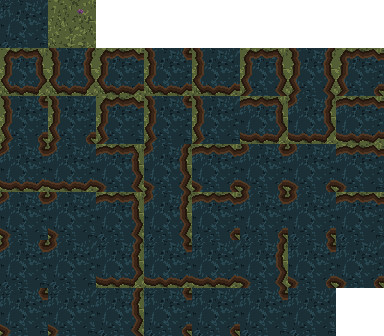
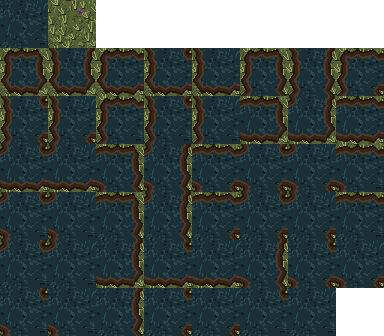
Ember Moor's floor with the new generators: the moor's three looks are the same ground with tufts lit from the style's light, sharing edges=2 and each with its own seed inside (map lattice 26% → 12%, seam 0.35 → 0.17); the pool follows its outside tile; the bog water's cluster-size limit raised agai

diff --git a/skill/SKILL.md b/skill/SKILL.md
@@ -88,7 +88,9 @@ At 48 px: look with `view grid region=` (a whole 48x48 grid is long), `render` c
 (192 px) and `tile3x3` at 4x (576 px). Make texture variants by **forking the base and changing
 only its inside** (`fork moor moor_b`, `variant of=moor`, then `noise 4,4 40x40 … base=keep
 wrap=off` and your own marks): two independent noise tiles side by side show a seam where their
-bigger specks are cut at the border (`examples/ember-moor.pclaw` does this; its map seam is 0.35).
+bigger specks are cut at the border. With the structure generators the fork can lay the same
+ground again and only change the generator's seed, keeping its `edges=` (`examples/ember-moor.pclaw`
+since G16: three looks of noise and `tufts edges=2`, map seam 0.17, lattice 12%).
 Expect more `jaggies` from long curves: a big ellipse is fine alone, but where a second shape meets
 its outline the step runs go uneven; let one shape make the silhouette and shade inside it.
 
